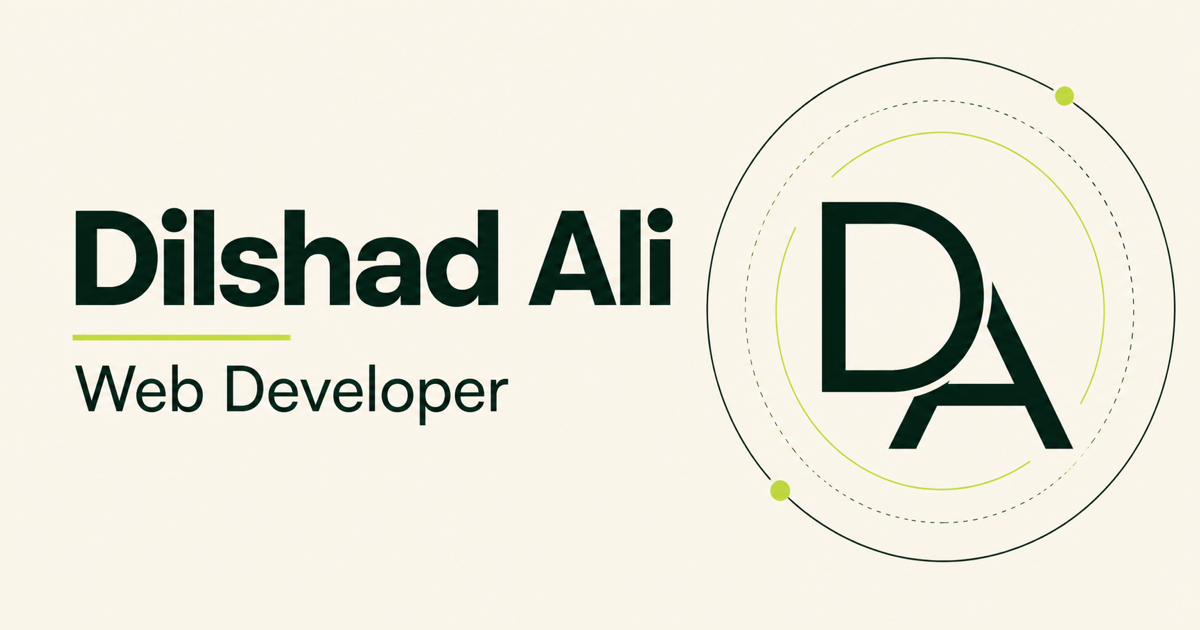
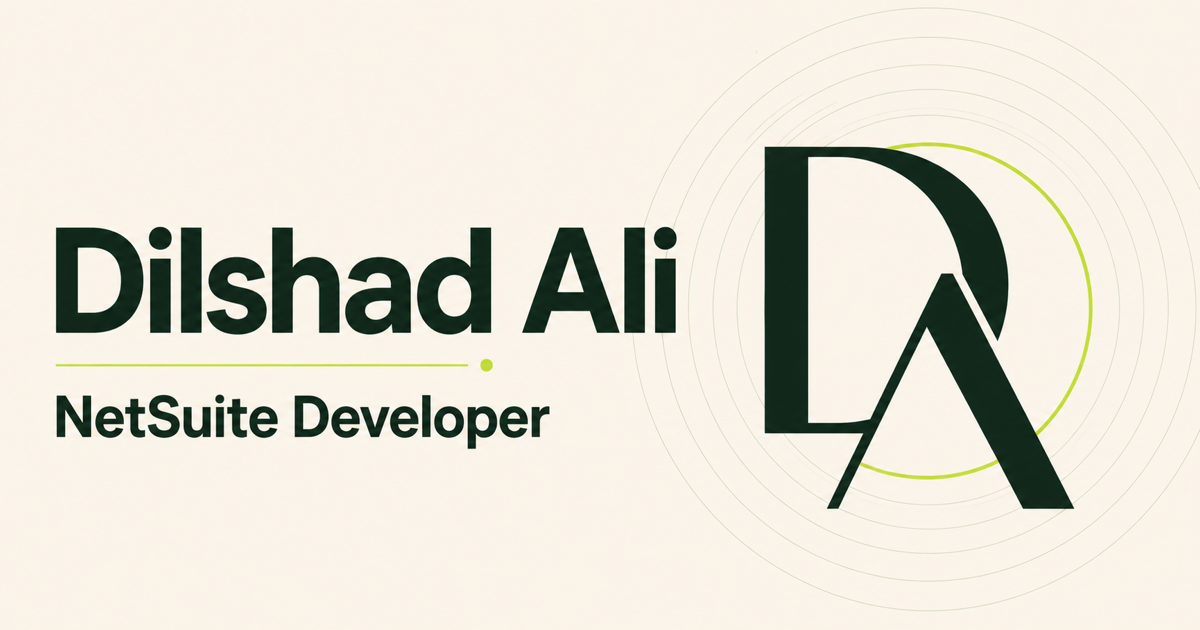
Update portfolio for NetSuite development

diff --git a/app/page.tsx b/app/page.tsx
@@ -4,7 +4,7 @@ const projects = [
   { name: "CV Generator", description: "A practical web app that helps users create professional resumes quickly.", stack: "Python · Django", href: "https://github.com/dilali-pk/cv-generator" },
 ];
 
-const skills = ["Python", "Django", "Django REST", "JavaScript", "React", "HTML & CSS", "MySQL", "Git & GitHub"];
+const skills = ["Oracle NetSuite", "SuiteScript 2.x", "SuiteFlow", "Saved Searches", "SuiteAnalytics", "RESTlets", "JavaScript", "ERP Integrations"];
 
 export default function Home() {
   return (
@@ -18,8 +18,8 @@ export default function Home() {
         <div className="heroCopy">
           <p className="eyebrow">Hello, I’m</p>
           <h1>Dilshad Ali</h1>
-          <h2>Web developer crafting useful digital experiences.</h2>
-          <p className="intro">I build clean, reliable web applications with Python, Django and modern frontend technologies—turning ideas into products people can actually use.</p>
+          <h2>NetSuite developer improving the way businesses work.</h2>
+          <p className="intro">I customize and extend Oracle NetSuite with SuiteScript, workflows and integrations—turning business requirements into reliable ERP solutions.</p>
           <div className="actions">
             <a className="primary" href="#work">View my work</a>
             <a className="secondary" href="https://github.com/dilali-pk" target="_blank" rel="noreferrer">GitHub ↗</a>
@@ -27,14 +27,14 @@ export default function Home() {
         </div>
         <div className="portrait" aria-label="Dilshad Ali monogram">
           <div className="orbit orbitOne" /><div className="orbit orbitTwo" />
-          <span>DA</span><p>Developer<br />&amp; Creator</p>
+          <span>DA</span><p>NetSuite<br />Developer</p>
         </div>
       </section>
 
       <section className="about section" id="about">
-        <div><p className="sectionLabel">01 / About</p><h2>I enjoy solving real problems with thoughtful code.</h2></div>
+        <div><p className="sectionLabel">01 / About</p><h2>I build NetSuite solutions around real business needs.</h2></div>
         <div className="aboutText">
-          <p>I’m a developer focused on practical web products, robust APIs and clear user experiences. My work combines backend development with a sharp eye for simple, accessible interfaces.</p>
+          <p>I’m a NetSuite developer focused on ERP customization, process automation, reporting and system integrations. I use SuiteScript and native NetSuite tools to make finance and operations workflows simpler, faster and more reliable.</p>
           <div className="skillList">{skills.map((skill) => <span key={skill}>{skill}</span>)}</div>
         </div>
       </section>

diff --git a/app/layout.tsx b/app/layout.tsx
@@ -7,17 +7,17 @@ const geistMono = Geist_Mono({ variable: "--font-geist-mono", subsets: ["latin"]
 
 export const metadata: Metadata = {
   metadataBase: new URL("https://dilali-pk.github.io"),
-  title: "Dilshad Ali — Web Developer",
-  description: "Portfolio of Dilshad Ali, a web developer specializing in Python, Django and modern web experiences.",
+  title: "Dilshad Ali — NetSuite Developer",
+  description: "Portfolio of Dilshad Ali, a NetSuite developer specializing in SuiteScript, automation, reporting and ERP integrations.",
   openGraph: {
-    title: "Dilshad Ali — Web Developer",
-    description: "Clean, reliable web applications built with Python, Django and modern frontend technologies.",
-    images: [{ url: "/og.png", width: 1200, height: 630, alt: "Dilshad Ali — Web Developer" }],
+    title: "Dilshad Ali — NetSuite Developer",
+    description: "Reliable NetSuite customization, automation, reporting and ERP integrations.",
+    images: [{ url: "/og.png", width: 1200, height: 630, alt: "Dilshad Ali — NetSuite Developer" }],
   },
   twitter: {
     card: "summary_large_image",
-    title: "Dilshad Ali — Web Developer",
-    description: "Clean, reliable web applications built with Python, Django and modern frontend technologies.",
+    title: "Dilshad Ali — NetSuite Developer",
+    description: "Reliable NetSuite customization, automation, reporting and ERP integrations.",
     images: ["/og.png"],
   },
 };
